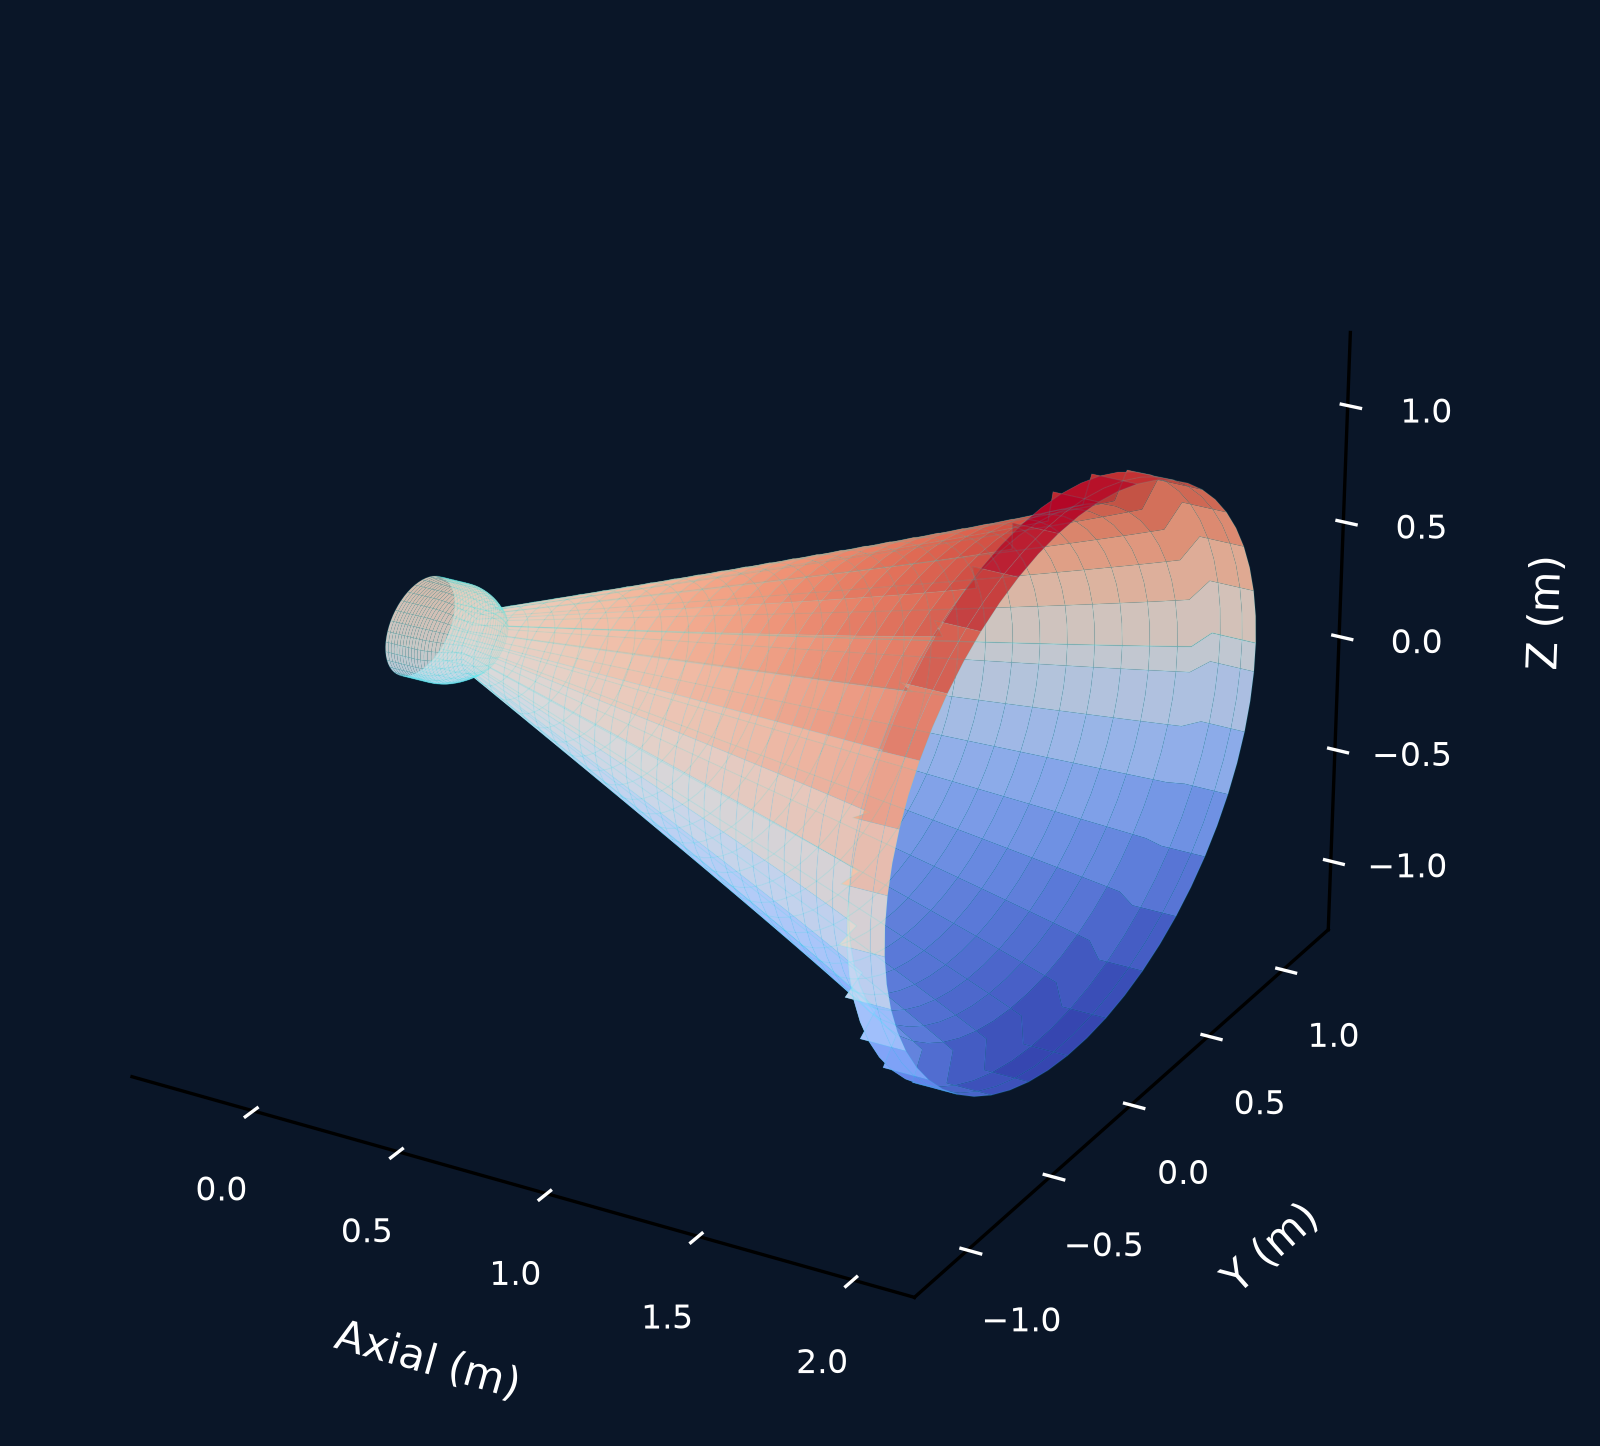
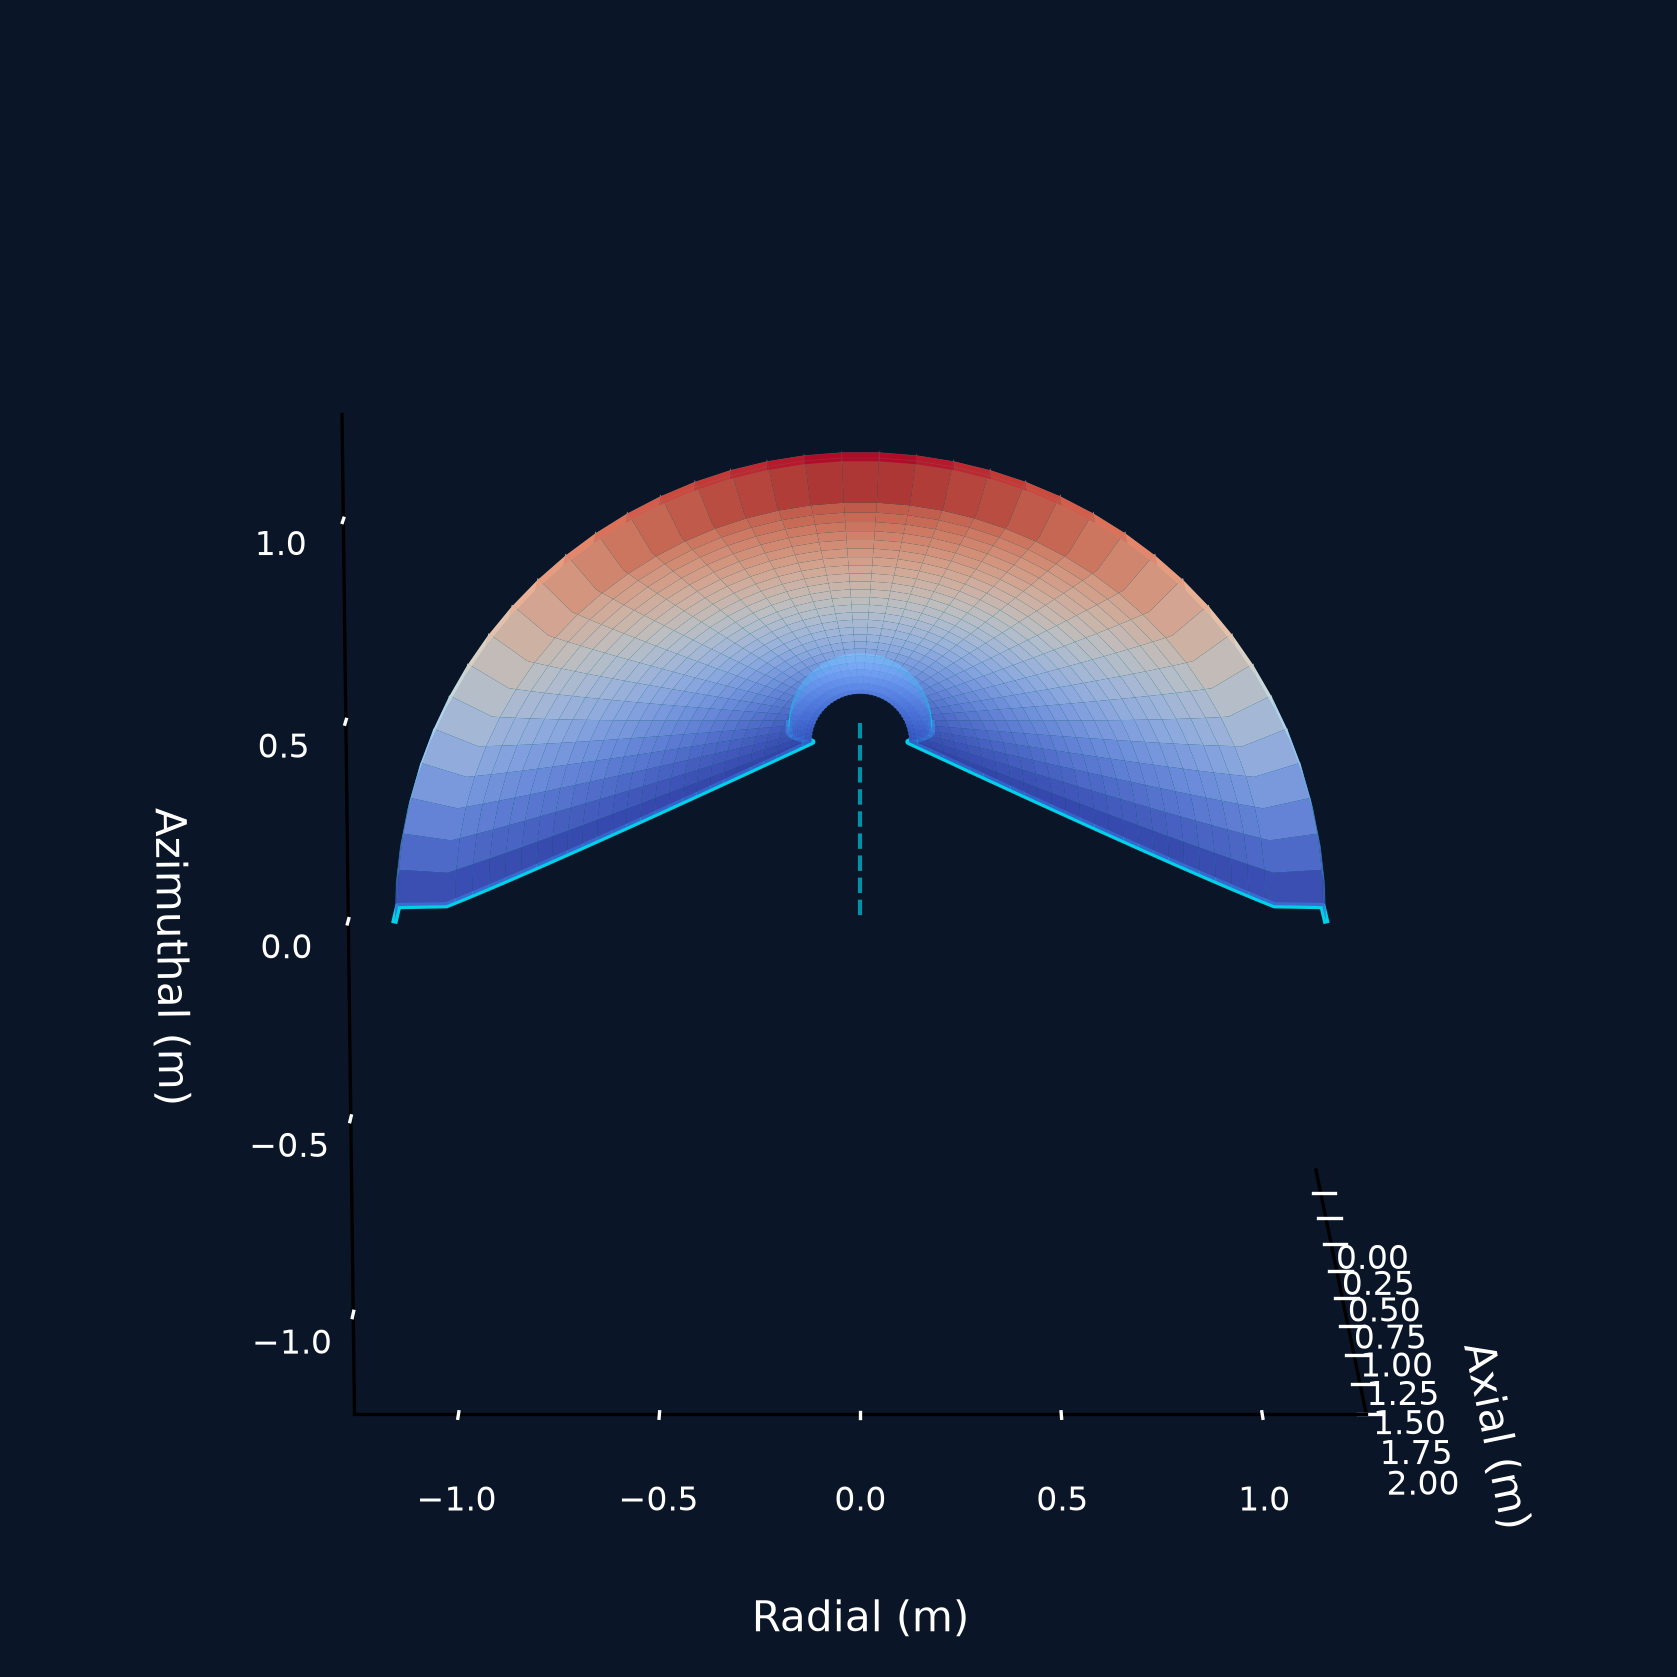
fix: rewrite 3D nozzle visualization with side profile view and correct proportions

diff --git a/src/viz/nozzle_3d.py b/src/viz/nozzle_3d.py
@@ -52,23 +52,23 @@ def plot_nozzle_3d(
     config: NozzleConfig,
     output_path: Path,
     dpi: int = 150,
-    elevation: float = 25.0,
-    azimuth: float = -60.0,
-    n_rings: int = 60,
+    elevation: float = 12.0,
+    azimuth: float = 0.0,
+    n_rings: int = 80,
     colormap: str = "coolwarm",
 ) -> Path:
     """Create a 3D revolved surface plot of the nozzle contour.
 
-    The nozzle wall is revolved around the x-axis and rendered as a
-    coloured surface with an optional wireframe overlay on a dark
-    background matching the AK-Vortex theme.
+    Renders the nozzle as a half-cut revolved surface viewed from the
+    side, showing the full profile: inlet chamber, convergent section,
+    throat, and divergent bell.  The nozzle axis runs horizontally.
 
     Args:
         config: Nozzle geometry parameters.
         output_path: Destination for the rendered PNG.
         dpi: Image resolution (dots per inch).
-        elevation: Camera elevation angle (degrees).
-        azimuth: Camera azimuth angle (degrees).
+        elevation: Camera elevation angle (degrees, default 12).
+        azimuth: Camera azimuth angle (degrees, default 0 = side view).
         n_rings: Number of angular divisions for the revolved mesh.
         colormap: Matplotlib colourmap for the surface.
 
@@ -80,11 +80,17 @@ def plot_nozzle_3d(
     # 1. Generate 2D contour
     x, y = generate_contour(config)
 
-    # 2. Revolve to 3D surface
-    X, Y, Z = revolve_contour(x, y, n_rings)
+    # 2. Revolve only the top half (0 to pi) for a clean side profile
+    n_half = max(n_rings // 2, 2)
+    theta = np.linspace(0, np.pi, n_half)
+    theta_mesh, x_mesh = np.meshgrid(theta, x, indexing="ij")
+
+    Y = y * np.cos(theta_mesh)
+    Z = y * np.sin(theta_mesh)
+    X = x_mesh
 
     # 3. Create figure with dark background
-    fig = plt.figure(figsize=(14, 6))
+    fig = plt.figure(figsize=(16, 7))
     fig.patch.set_facecolor("#0a1628")
     ax = fig.add_subplot(111, projection="3d")
     ax.set_facecolor("#0a1628")
@@ -93,29 +99,50 @@ def plot_nozzle_3d(
     ax.plot_surface(
         X, Y, Z,
         cmap=colormap,
-        alpha=0.9,
+        alpha=0.85,
         edgecolor="none",
         antialiased=True,
+        shade=True,
     )
 
-    # 5. Wireframe overlay at low opacity
+    # 5. Wireframe overlay for mesh quality impression
     ax.plot_wireframe(
         X, Y, Z,
-        alpha=0.1,
+        alpha=0.08,
         color="cyan",
-        linewidth=0.3,
+        linewidth=0.2,
     )
 
-    # 6. Equal aspect ratio
-    _set_axes_equal_3d(ax)
+    # 6. Draw the axis of symmetry line
+    ax.plot(
+        [x.min(), x.max()], [0, 0], [0, 0],
+        color="#00e5ff", linewidth=1.0, alpha=0.6, linestyle="--",
+    )
 
-    # 7. View angle
+    # 7. Draw the 2D contour profile on the Z=0 plane for clarity
+    ax.plot(x, y, np.zeros_like(x), color="#00e5ff", linewidth=1.5, alpha=0.9)
+    ax.plot(x, -y, np.zeros_like(x), color="#00e5ff", linewidth=1.5, alpha=0.9)
+
+    # 8. Set axis proportions: Y and Z equal (circular), X scaled to show length
+    r_max = float(np.max(y))
+    x_range = float(x.max() - x.min())
+    yz_range = 2.0 * r_max
+
+    # Center the nozzle at origin for Y/Z
+    ax.set_xlim3d(float(x.min()), float(x.max()))
+    ax.set_ylim3d(-r_max * 1.1, r_max * 1.1)
+    ax.set_zlim3d(-r_max * 1.1, r_max * 1.1)
+
+    # Force equal Y/Z aspect ratio; let X scale naturally
+    ax.set_box_aspect([x_range / yz_range, 1.0, 1.0])
+
+    # 9. View angle: near side-profile
     ax.view_init(elev=elevation, azim=azimuth)
 
-    # 8. Style: light labels, no grid
-    ax.set_xlabel("Axial (m)", color="white", fontsize=10, labelpad=10)
-    ax.set_ylabel("Y (m)", color="white", fontsize=10, labelpad=10)
-    ax.set_zlabel("Z (m)", color="white", fontsize=10, labelpad=10)
+    # 10. Style
+    ax.set_xlabel("Axial (m)", color="white", fontsize=10, labelpad=12)
+    ax.set_ylabel("Radial (m)", color="white", fontsize=10, labelpad=12)
+    ax.set_zlabel("Azimuthal (m)", color="white", fontsize=10, labelpad=12)
     ax.tick_params(colors="white", labelsize=8)
     ax.grid(False)
     ax.xaxis.pane.fill = False
@@ -125,26 +152,12 @@ def plot_nozzle_3d(
     ax.yaxis.pane.set_edgecolor("none")
     ax.zaxis.pane.set_edgecolor("none")
 
-    # 9. Save
+    # 11. Save
     output_path.parent.mkdir(parents=True, exist_ok=True)
-    plt.savefig(output_path, dpi=dpi, bbox_inches="tight", facecolor=fig.get_facecolor())
+    plt.savefig(
+        output_path, dpi=dpi, bbox_inches="tight",
+        facecolor=fig.get_facecolor(), pad_inches=0.1,
+    )
     plt.close(fig)
 
     return output_path
-
-
-def _set_axes_equal_3d(ax: plt.Axes) -> None:
-    """Set equal aspect ratio for a 3D matplotlib axes.
-
-    Computes the bounding cube of the current limits and expands each
-    axis to the same range so that the nozzle geometry is not distorted.
-
-    Args:
-        ax: A matplotlib 3D Axes instance.
-    """
-    limits = np.array([ax.get_xlim3d(), ax.get_ylim3d(), ax.get_zlim3d()])
-    origin = np.mean(limits, axis=1)
-    radius = 0.5 * np.max(np.abs(limits[:, 1] - limits[:, 0]))
-    ax.set_xlim3d([origin[0] - radius, origin[0] + radius])
-    ax.set_ylim3d([origin[1] - radius, origin[1] + radius])
-    ax.set_zlim3d([origin[2] - radius, origin[2] + radius])
